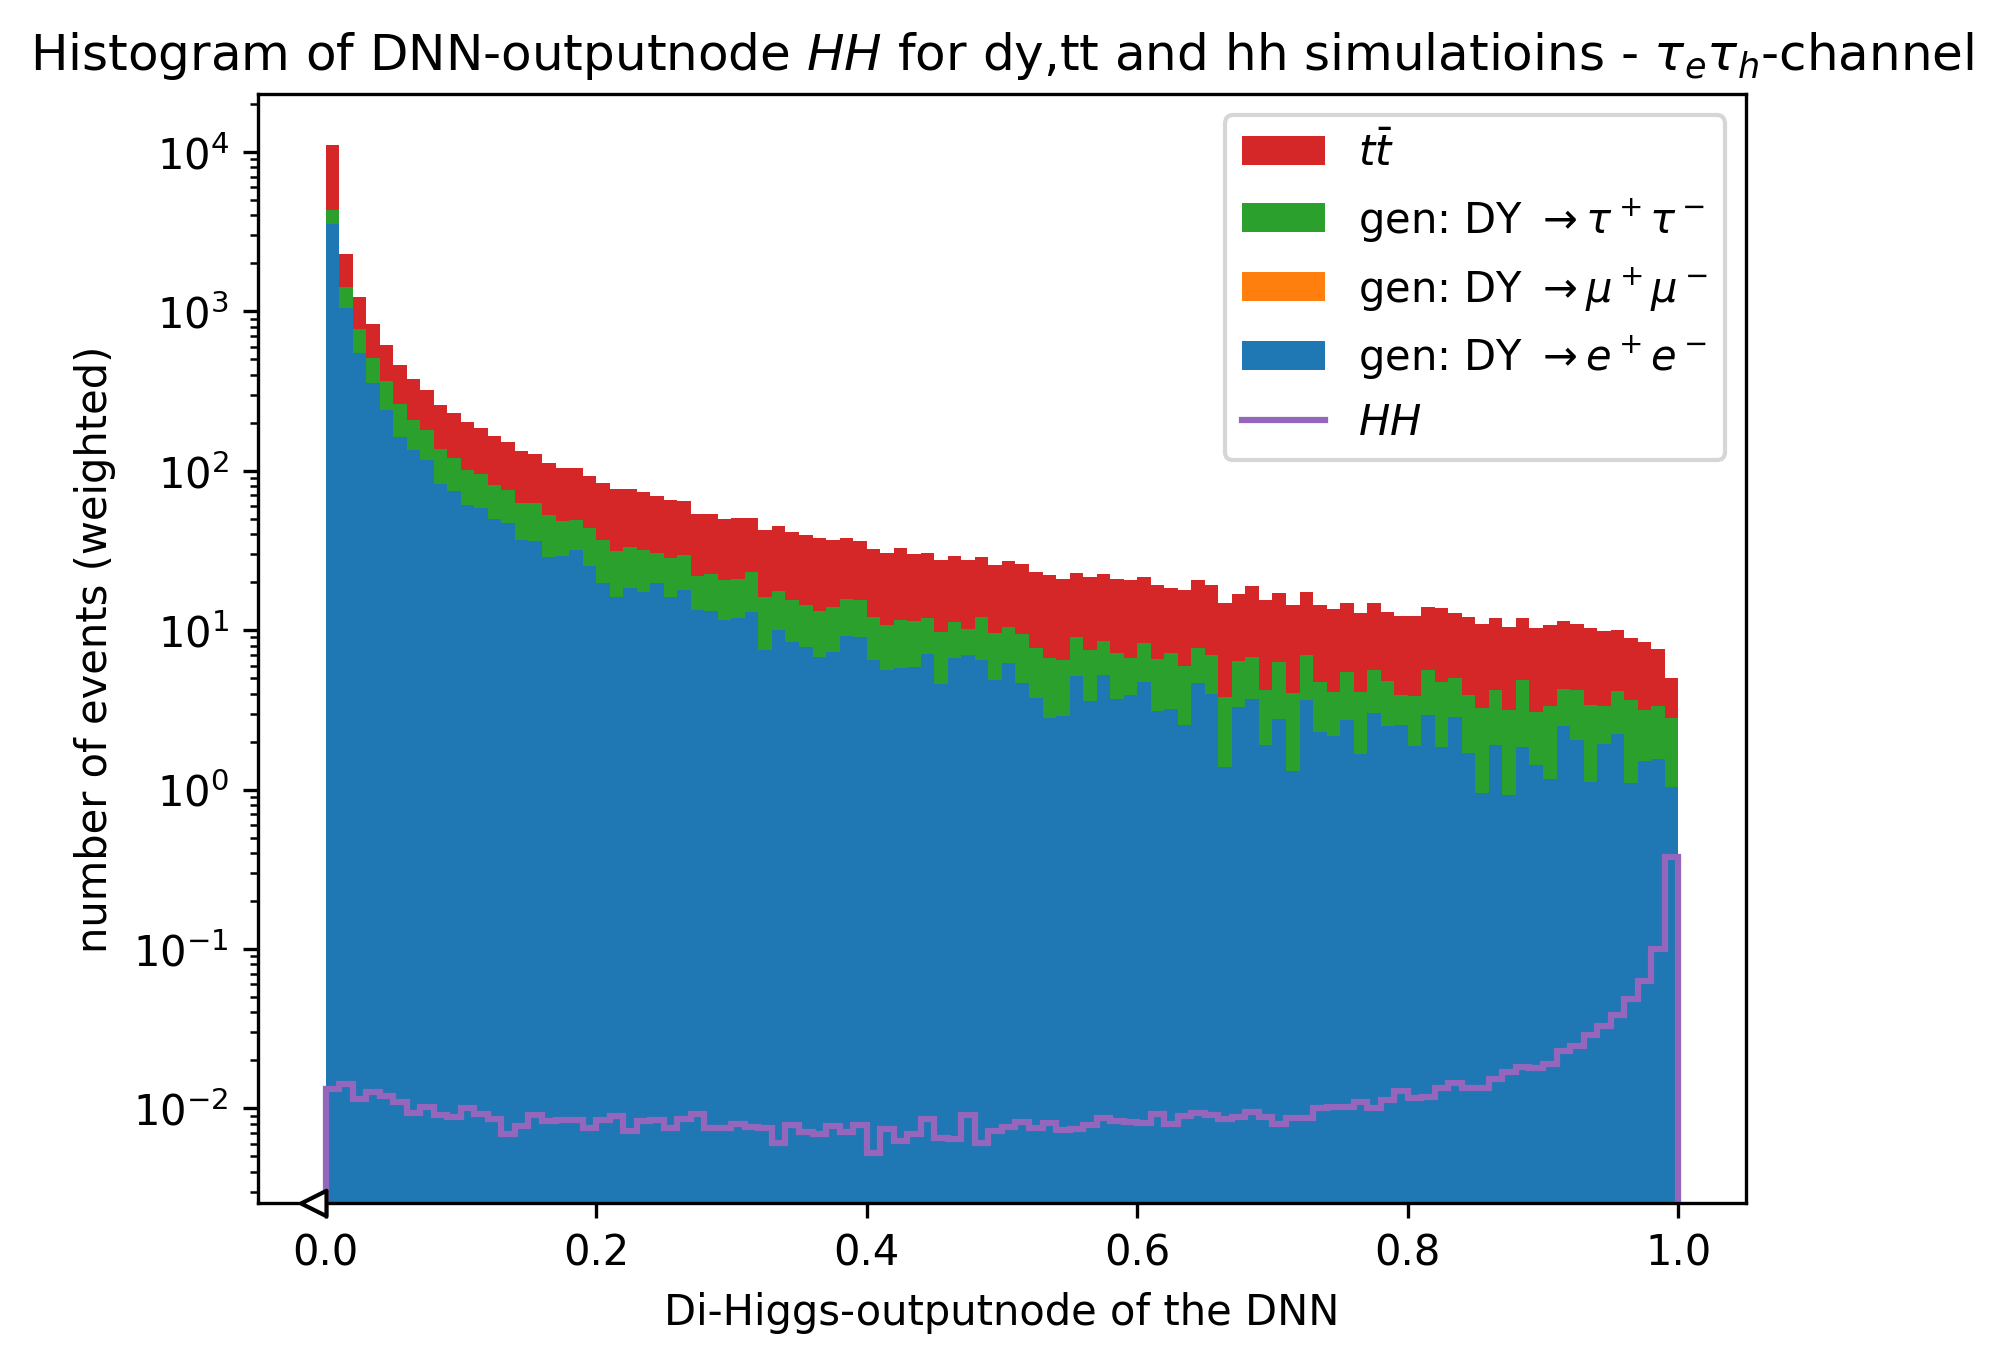
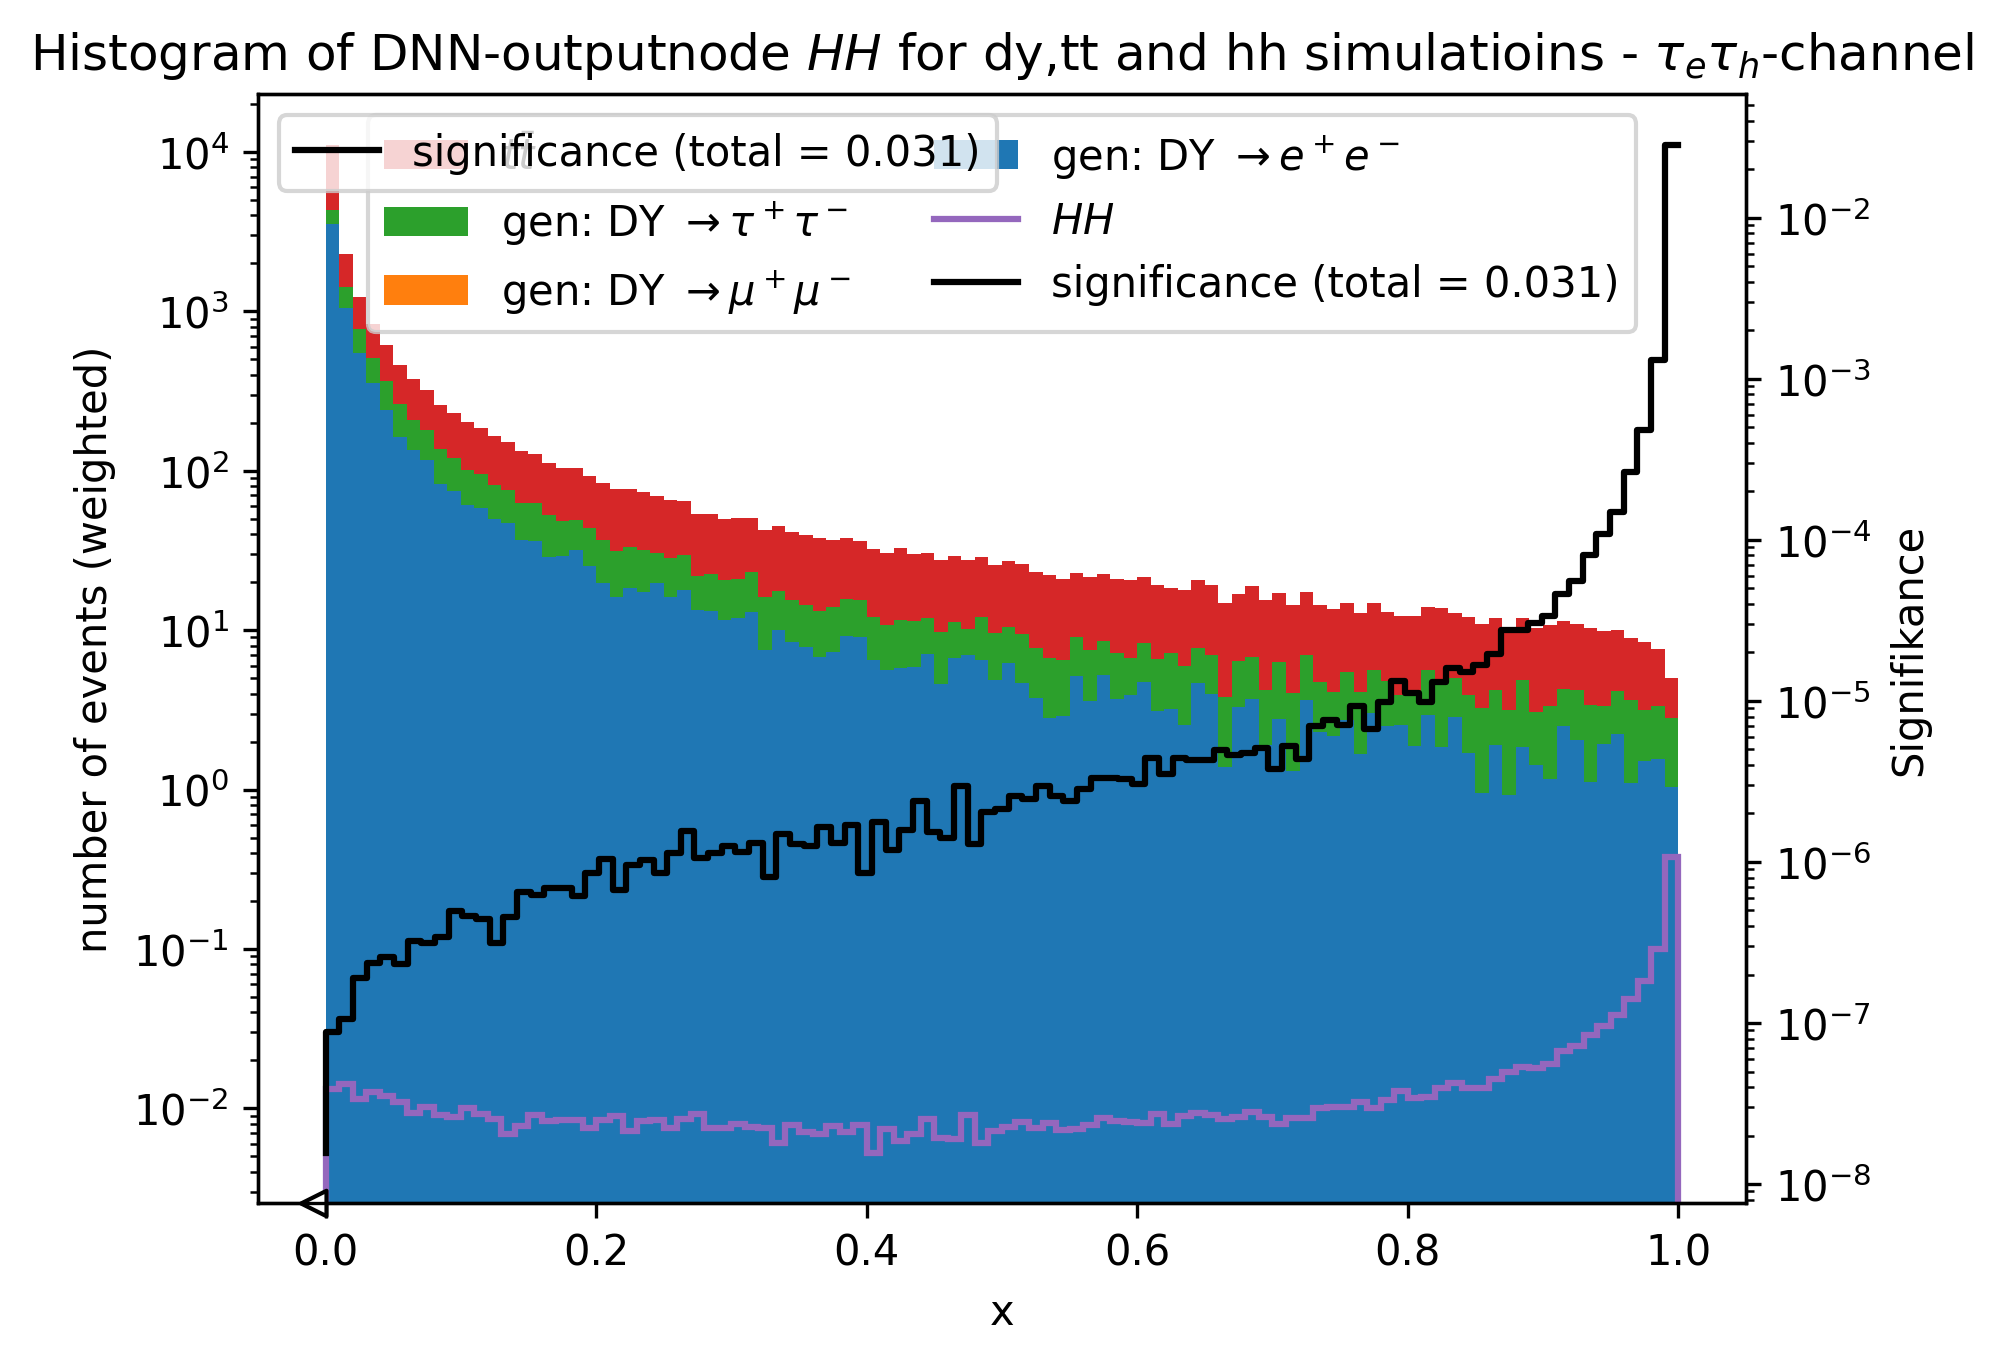
Signifikanz zu den Plots aus hist_1.py hinzugefügt

diff --git a/hists_1.py b/hists_1.py
@@ -31,28 +31,38 @@ for i in [1,2,3]:
     tt.fill(events_tt.run3_dnn_moe_hh[events_tt.channel_id == i],weight=events_tt.event_weight[events_tt.channel_id == i])
     hh.fill(events_hh.run3_dnn_moe_hh[events_hh.channel_id == i],weight=events_hh.event_weight[events_hh.channel_id == i])
 
-    #from IPython import embed; embed(header="MESSAGE Line 34 | File: hists_1.py")
-    fig, ax1 = plt.subplots()
-    background_bins = np.sum(dy.values(),axis=0)+ tt.values()
-    signal_bins = hh.values()
-    significance = signal_bins**2/background_bins
-    ax2 = ax1.twinx()  # Erstellt die rechte Achse
-    ax2.plot(np.linspace(0, 1, 100),significance, label="significance")
-    ax2.set_ylabel('Exponentielle Werte')
-    ax2.tick_params(axis='y', labelcolor='b')
-    #plt.plot(significance)
 
-    plt.yscale('log')    #Achse logarithmisch skalieren 
+    fig, ax1 = plt.subplots()
 
     # Stack-Plot erstellen
     stack = dy.stack("Zerfallskanal")
-    stack.plot(stack=True, histtype="fill") # 'stack=True' ist entscheidend!
+    stack.plot(stack=True, histtype="fill",ax=ax1) # 'stack=True' ist entscheidend!
 
-    tt.plot(label=r"$t\bar{t}$")
-    hh.plot(label=r"$HH$")
+    tt.plot(label=r"$t\bar{t}$",ax=ax1)
+    hh.plot(label=r"$HH$",ax=ax1)
 
-    plt.legend()
-    plt.ylabel("number of events (weighted)")
+    ax1.set_ylabel("number of events (weighted)")
+    plt.yscale('log')    #linke Achse logarithmisch skalieren 
+
+    #zweite Achse
+    background_bins = np.sum(dy.values(),axis=0)+ tt.values()
+    signal_bins = hh.values()
+    significance = signal_bins**2/background_bins
+    significance_total = round(np.sum(significance),3)
+    ax2 = ax1.twinx()  # Erstellt die rechte Achse
+    ax2.step(np.linspace(0, 1, 100),significance, label=f"significance (total = {significance_total})", color="black")
+    ax2.set_ylabel('Significance')
+    ax2.tick_params(axis='y', labelcolor='black')
+
+    plt.yscale('log')    #rechte Achse logarithmisch skalieren 
+
+    #legende:
+    h1, l1 = ax1.get_legend_handles_labels()
+    h2, l2 = ax2.get_legend_handles_labels()
+    # Gemeinsam plotten
+    ax1.legend(h1 + h2, l1 + l2, loc="upper center", ncol=2, frameon=True)
+
+
     plt.xlabel("Di-Higgs-outputnode of the DNN")
     plt.title(f"Histogram of DNN-outputnode $HH$ for dy,tt and hh simulatioins - {channelname_r[i-1]}-channel")
     plt.savefig(f"plots/hist_hhnode/{channelname[i-1]}-channel.png", dpi=300, bbox_inches='tight')
@@ -65,36 +75,6 @@ for i in [1,2,3]:
 
 
 
-#2. Normierte, lineare histogramme plotten (recht unwichtig)
-for i in [1,2,3]:
-    dy.fill(x=events_dy.run3_dnn_moe_hh[(events_dy.channel_id == i) & (events_dy.gen_ll_pdgid == 11)],Zerfallskanal=r"gen: DY $\to e^+e^-$", weight=events_dy.event_weight[(events_dy.channel_id == i) & (events_dy.gen_ll_pdgid == 11)])    #maske für channel (und bei dy Zerfallskanal) in eckigen Klammern
-    dy.fill(x=events_dy.run3_dnn_moe_hh[(events_dy.channel_id == i) & (events_dy.gen_ll_pdgid == 13)],Zerfallskanal=r"gen: DY $\to \mu^+\mu^-$", weight=events_dy.event_weight[(events_dy.channel_id == i) & (events_dy.gen_ll_pdgid == 13)])
-    dy.fill(x=events_dy.run3_dnn_moe_hh[(events_dy.channel_id == i) & (events_dy.gen_ll_pdgid == 15)],Zerfallskanal=r"gen: DY $\to \tau^+\tau^-$", weight=events_dy.event_weight[(events_dy.channel_id == i) & (events_dy.gen_ll_pdgid == 15)])
-
-    tt.fill(events_tt.run3_dnn_moe_hh[events_tt.channel_id == i],weight=events_tt.event_weight[events_tt.channel_id == i])
-    hh.fill(events_hh.run3_dnn_moe_hh[events_hh.channel_id == i],weight=events_hh.event_weight[events_hh.channel_id == i])
-
-
-    # Stack-Plot erstellen
-    stack = dy.stack("Zerfallskanal")
-    stack.plot(stack=True, histtype="fill", density=True) # 'stack=True' ist entscheidend!
-
-    tt.plot(label=r"$t\bar{t}$", density=True)
-    hh.plot(label=r"$HH$", density=True)
-
-    plt.legend()
-    plt.ylabel("number of events (normalized)")
-    plt.xlabel("Di-Higgs-outputnode of the DNN")
-    plt.title(f"Histogram of DNN-outputnode $HH$ for dy,tt and hh simulatioins - {channelname_r[i-1]}-channel")
-    plt.savefig(f"plots/hist_hhnode_lin/{channelname[i-1]}-channel_linear.png", dpi=300, bbox_inches='tight')
-    plt.figure()
-
-    #histogramme für nächste iteration clearen
-    dy.reset()
-    tt.reset()
-    hh.reset()
-
-
 
 #3. wie 1, aber tt wird zum stack hinzugefügt
 for i in [1,2,3]: #i steht für den channel
@@ -105,16 +85,40 @@ for i in [1,2,3]: #i steht für den channel
 
     hh.fill(events_hh.run3_dnn_moe_hh[events_hh.channel_id == i],weight=events_hh.event_weight[events_hh.channel_id == i])
 
-    plt.yscale('log')    #Achse logarithmisch skalieren 
+    fig, ax1 = plt.subplots()
 
     # Stack-Plot erstellen
     stack = dy.stack("Zerfallskanal") #technically zerfallskanal+tt als korrekter name
-    stack.plot(stack=True, histtype="fill") # 'stack=True' ist entscheidend!
+    stack.plot(stack=True, histtype="fill", ax=ax1) # 'stack=True' ist entscheidend!
 
-    hh.plot(label=r"$HH$")
+    hh.plot(label=r"$HH$",ax=ax1)
+
+    ax1.set_ylabel("number of events (weighted)")
+    plt.yscale('log')    #linke Achse logarithmisch skalieren 
+
+    from IPython import embed; embed(header="MESSAGE Line 99 | File: hists_1.py")
+
+    #zweite Achse
+    background_bins = np.sum(dy.values(),axis=0)
+    signal_bins = hh.values()
+    significance = signal_bins**2/background_bins
+    significance_total = round(np.sum(significance),3)
+    ax2 = ax1.twinx()  # Erstellt die rechte Achse
+    ax2.step(np.linspace(0, 1, 100),significance, label=f"significance (total = {significance_total})", color="black")
+    ax2.set_ylabel('Significance')
+    ax2.tick_params(axis='y', labelcolor='black')
+
+    plt.yscale('log')    #rechte Achse logarithmisch skalieren 
+
+    #legende:
+    h1, l1 = ax1.get_legend_handles_labels()
+    h2, l2 = ax2.get_legend_handles_labels()
+    # Gemeinsam plotten
+    ax1.legend(h1 + h2, l1 + l2, loc="upper center", ncol=2, frameon=True)
+
+
 
     plt.legend()
-    plt.ylabel("number of events (weighted)")
     plt.xlabel("Di-Higgs-outputnode of the DNN")
     plt.title(f"Histogram of DNN-outputnode $HH$ for dy,tt and hh simulatioins - {channelname_r[i-1]}-channel")
     plt.savefig(f"plots/hist_hhnode_stacked-tt/{channelname[i-1]}-channel.png", dpi=300, bbox_inches='tight')

diff --git a/aktuell.py b/aktuell.py
@@ -1,7 +1,40 @@
-thisdict={}
-thisdict["color"]="red"
-print(thisdict)
+#1. Histogramme nach channel aufteilen, fillen (für dy nach Zerfallskanal aufteilen + stacken), plotten.
+for i in [1,2,3]:
+    dy.fill(x=events_dy.run3_dnn_moe_hh[(events_dy.channel_id == i) & (events_dy.gen_ll_pdgid == 11)],Zerfallskanal=r"gen: DY $\to e^+e^-$", weight=events_dy.event_weight[(events_dy.channel_id == i) & (events_dy.gen_ll_pdgid == 11)])    #maske für channel (und bei dy Zerfallskanal) in eckigen Klammern
+    dy.fill(x=events_dy.run3_dnn_moe_hh[(events_dy.channel_id == i) & (events_dy.gen_ll_pdgid == 13)],Zerfallskanal=r"gen: DY $\to \mu^+\mu^-$", weight=events_dy.event_weight[(events_dy.channel_id == i) & (events_dy.gen_ll_pdgid == 13)])
+    dy.fill(x=events_dy.run3_dnn_moe_hh[(events_dy.channel_id == i) & (events_dy.gen_ll_pdgid == 15)],Zerfallskanal=r"gen: DY $\to \tau^+\tau^-$", weight=events_dy.event_weight[(events_dy.channel_id == i) & (events_dy.gen_ll_pdgid == 15)])
 
-thisdict.update({"year":"1991"})
-print(thisdict)
-print(thisdict["color"])
+    tt.fill(events_tt.run3_dnn_moe_hh[events_tt.channel_id == i],weight=events_tt.event_weight[events_tt.channel_id == i])
+    hh.fill(events_hh.run3_dnn_moe_hh[events_hh.channel_id == i],weight=events_hh.event_weight[events_hh.channel_id == i])
+
+    #from IPython import embed; embed(header="MESSAGE Line 34 | File: hists_1.py")
+    fig, ax1 = plt.subplots()
+    background_bins = np.sum(dy.values(),axis=0)+ tt.values()
+    signal_bins = hh.values()
+    significance = signal_bins**2/background_bins
+    ax2 = ax1.twinx()  # Erstellt die rechte Achse
+    ax2.plot(np.linspace(0, 1, 100),significance, label="significance")
+    ax2.set_ylabel('Exponentielle Werte')
+    ax2.tick_params(axis='y', labelcolor='b')
+    #plt.plot(significance)
+
+    plt.yscale('log')    #Achse logarithmisch skalieren 
+
+    # Stack-Plot erstellen
+    stack = dy.stack("Zerfallskanal")
+    stack.plot(stack=True, histtype="fill") # 'stack=True' ist entscheidend!
+
+    tt.plot(label=r"$t\bar{t}$")
+    hh.plot(label=r"$HH$")
+
+    plt.legend()
+    plt.ylabel("number of events (weighted)")
+    plt.xlabel("Di-Higgs-outputnode of the DNN")
+    plt.title(f"Histogram of DNN-outputnode $HH$ for dy,tt and hh simulatioins - {channelname_r[i-1]}-channel")
+    plt.savefig(f"plots/hist_hhnode/{channelname[i-1]}-channel.png", dpi=300, bbox_inches='tight')
+    plt.figure()
+
+    #histogramme für nächste iteration clearen
+    dy.reset()
+    tt.reset()
+    hh.reset()
